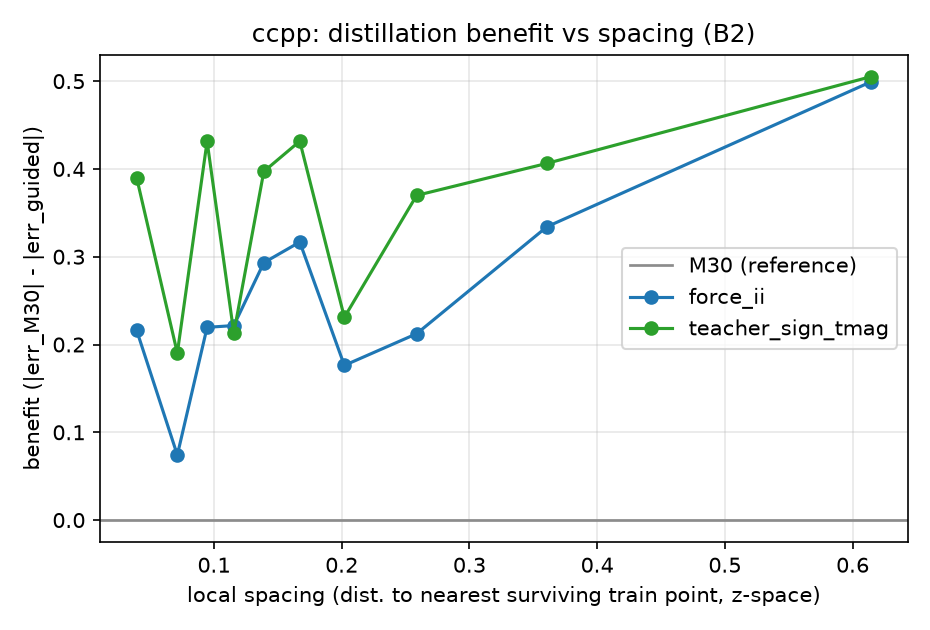
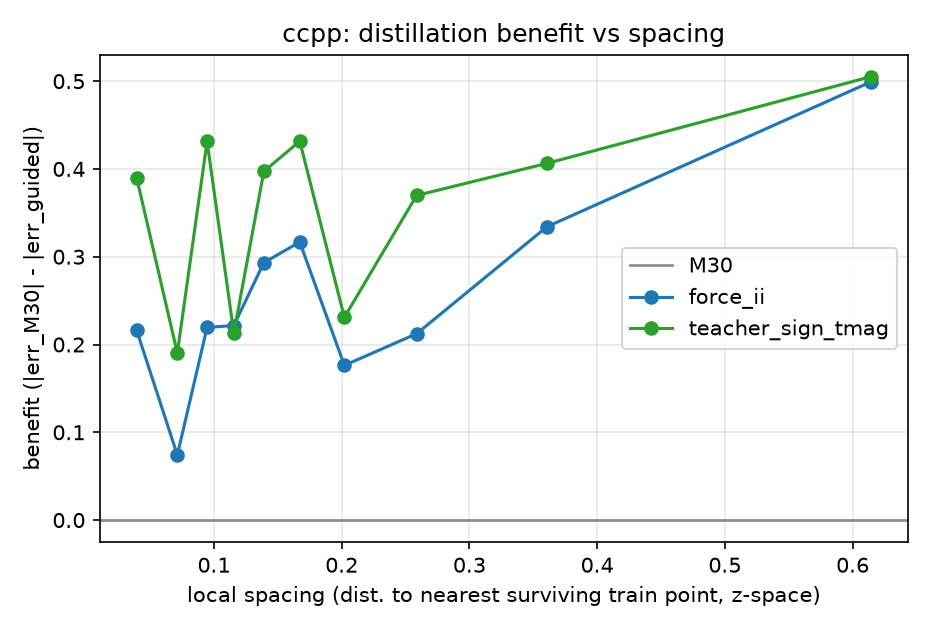
Rename heatmap figure and tab:tierA label; unify Fig 2 legends
Rename modes_density_heatmap__eff_norm.png -> density_benefit_heatmap.png and
the table label tab:tierA -> tab:density (internal names not meant for readers).
Regenerate the spacing panels so both (a) and (b) show the same three versions
(M30, force_ii, teacher_sign_tmag) with identical legend labels, and drop the
leftover (B1)/(B2) tags from the plot titles.

Changed region(s): [[0.2806, 0.0302, 0.8108, 0.0905], [0.8108, 0.3921, 0.9355, 0.4524]]

diff --git a/regen_paper_figs.py b/regen_paper_figs.py
@@ -43,7 +43,7 @@ ax.set_title("Spearman(benefit, predictor) across the 12-dataset panel "
 cb = fig.colorbar(im, ax=ax, fraction=0.025, pad=0.01)
 cb.set_label("Spearman r")
 fig.tight_layout()
-fig.savefig(os.path.join(FIGDIR, "modes_density_heatmap__eff_norm.png"), dpi=150)
+fig.savefig(os.path.join(FIGDIR, "density_benefit_heatmap.png"), dpi=150)
 plt.close(fig)
 print("wrote heatmap; columns =", len(pred_order), "(no knn_ratio_mean)")
 
@@ -58,13 +58,13 @@ x = g["spacing"].mean().values
 
 # (a) error vs spacing: M30 (unguided) + two guided modes
 fig, ax = plt.subplots(figsize=(6.2, 4.2))
-ax.plot(x, g["err_unguided"].mean().values, "o-", color="#8c8c8c", label="M30 (unguided)")
+ax.plot(x, g["err_unguided"].mean().values, "o-", color="#8c8c8c", label="M30")
 ax.plot(x, g["err_force_ii"].mean().values, "o-", color="#1f77b4", label="force_ii")
 ax.plot(x, g["err_teacher_sign_tmag"].mean().values, "o-", color="#2ca02c",
         label="teacher_sign_tmag")
 ax.set_xlabel("local spacing (dist. to nearest surviving train point, z-space)")
 ax.set_ylabel("mean |error|")
-ax.set_title("ccpp: error vs spacing (B1)")
+ax.set_title("ccpp: error vs spacing")
 ax.legend()
 ax.grid(True, alpha=0.3)
 fig.tight_layout()
@@ -73,13 +73,13 @@ plt.close(fig)
 
 # (b) benefit vs spacing: same two guided modes + M30 zero reference line
 fig, ax = plt.subplots(figsize=(6.2, 4.2))
-ax.axhline(0.0, color="#8c8c8c", lw=1.3, label="M30 (reference)")
+ax.axhline(0.0, color="#8c8c8c", lw=1.3, label="M30")
 ax.plot(x, g["benefit_force_ii"].mean().values, "o-", color="#1f77b4", label="force_ii")
 ax.plot(x, g["benefit_teacher_sign_tmag"].mean().values, "o-", color="#2ca02c",
         label="teacher_sign_tmag")
 ax.set_xlabel("local spacing (dist. to nearest surviving train point, z-space)")
 ax.set_ylabel("benefit (|err_M30| - |err_guided|)")
-ax.set_title("ccpp: distillation benefit vs spacing (B2)")
+ax.set_title("ccpp: distillation benefit vs spacing")
 ax.legend()
 ax.grid(True, alpha=0.3)
 fig.tight_layout()

diff --git a/paper/sections/spacing.tex b/paper/sections/spacing.tex
@@ -11,7 +11,7 @@ points lead to poorer learning of the regression surface? We test it at two gran
 We run the full mode family over the twelve-dataset panel (large datasets strided to $8000$
 training rows) and correlate each mode's fractional benefit with a battery of
 density and spacing metrics and with the teacher edge (Spearman across datasets). The
-headline result appears in Table~\ref{tab:tierA} and is visualised in
+headline result appears in Table~\ref{tab:density} and is visualised in
 Fig.~\ref{fig:heatmap}: for every mode, a density or structure metric out-predicts teacher
 accuracy, which sits at $\approx\!0$. The strongest and most robust predictor is
 \texttt{spc\_err\_strength}, a measure of how strongly local spacing predicts error within
@@ -21,7 +21,7 @@ a dataset, which correlates with \texttt{force\_ii\_tmag} benefit at $\rho = -0.
 \begin{table*}[t]
 \centering
 \caption{Best density predictor versus teacher edge, per mode (twelve-dataset panel).}
-\label{tab:tierA}
+\label{tab:density}
 \begin{tabular}{llrr}
 \toprule
 mode & best density predictor & $\rho$ & teacher\_edge $\rho$ \\
@@ -37,7 +37,7 @@ uniform            & size ($n$)         & $+0.46$ & $-0.07$ \\
 
 \begin{figure*}[t]
 \centering
-\includegraphics[width=0.92\textwidth]{modes_density_heatmap__eff_norm.png}
+\includegraphics[width=0.92\textwidth]{density_benefit_heatmap.png}
 \caption{Spearman correlation of each mode's fractional benefit with every density and
 spacing metric and with the teacher accuracy edge (rightmost column) across the
 twelve-dataset panel. The metrics are: $n$, dataset size; $d$, input dimensionality;